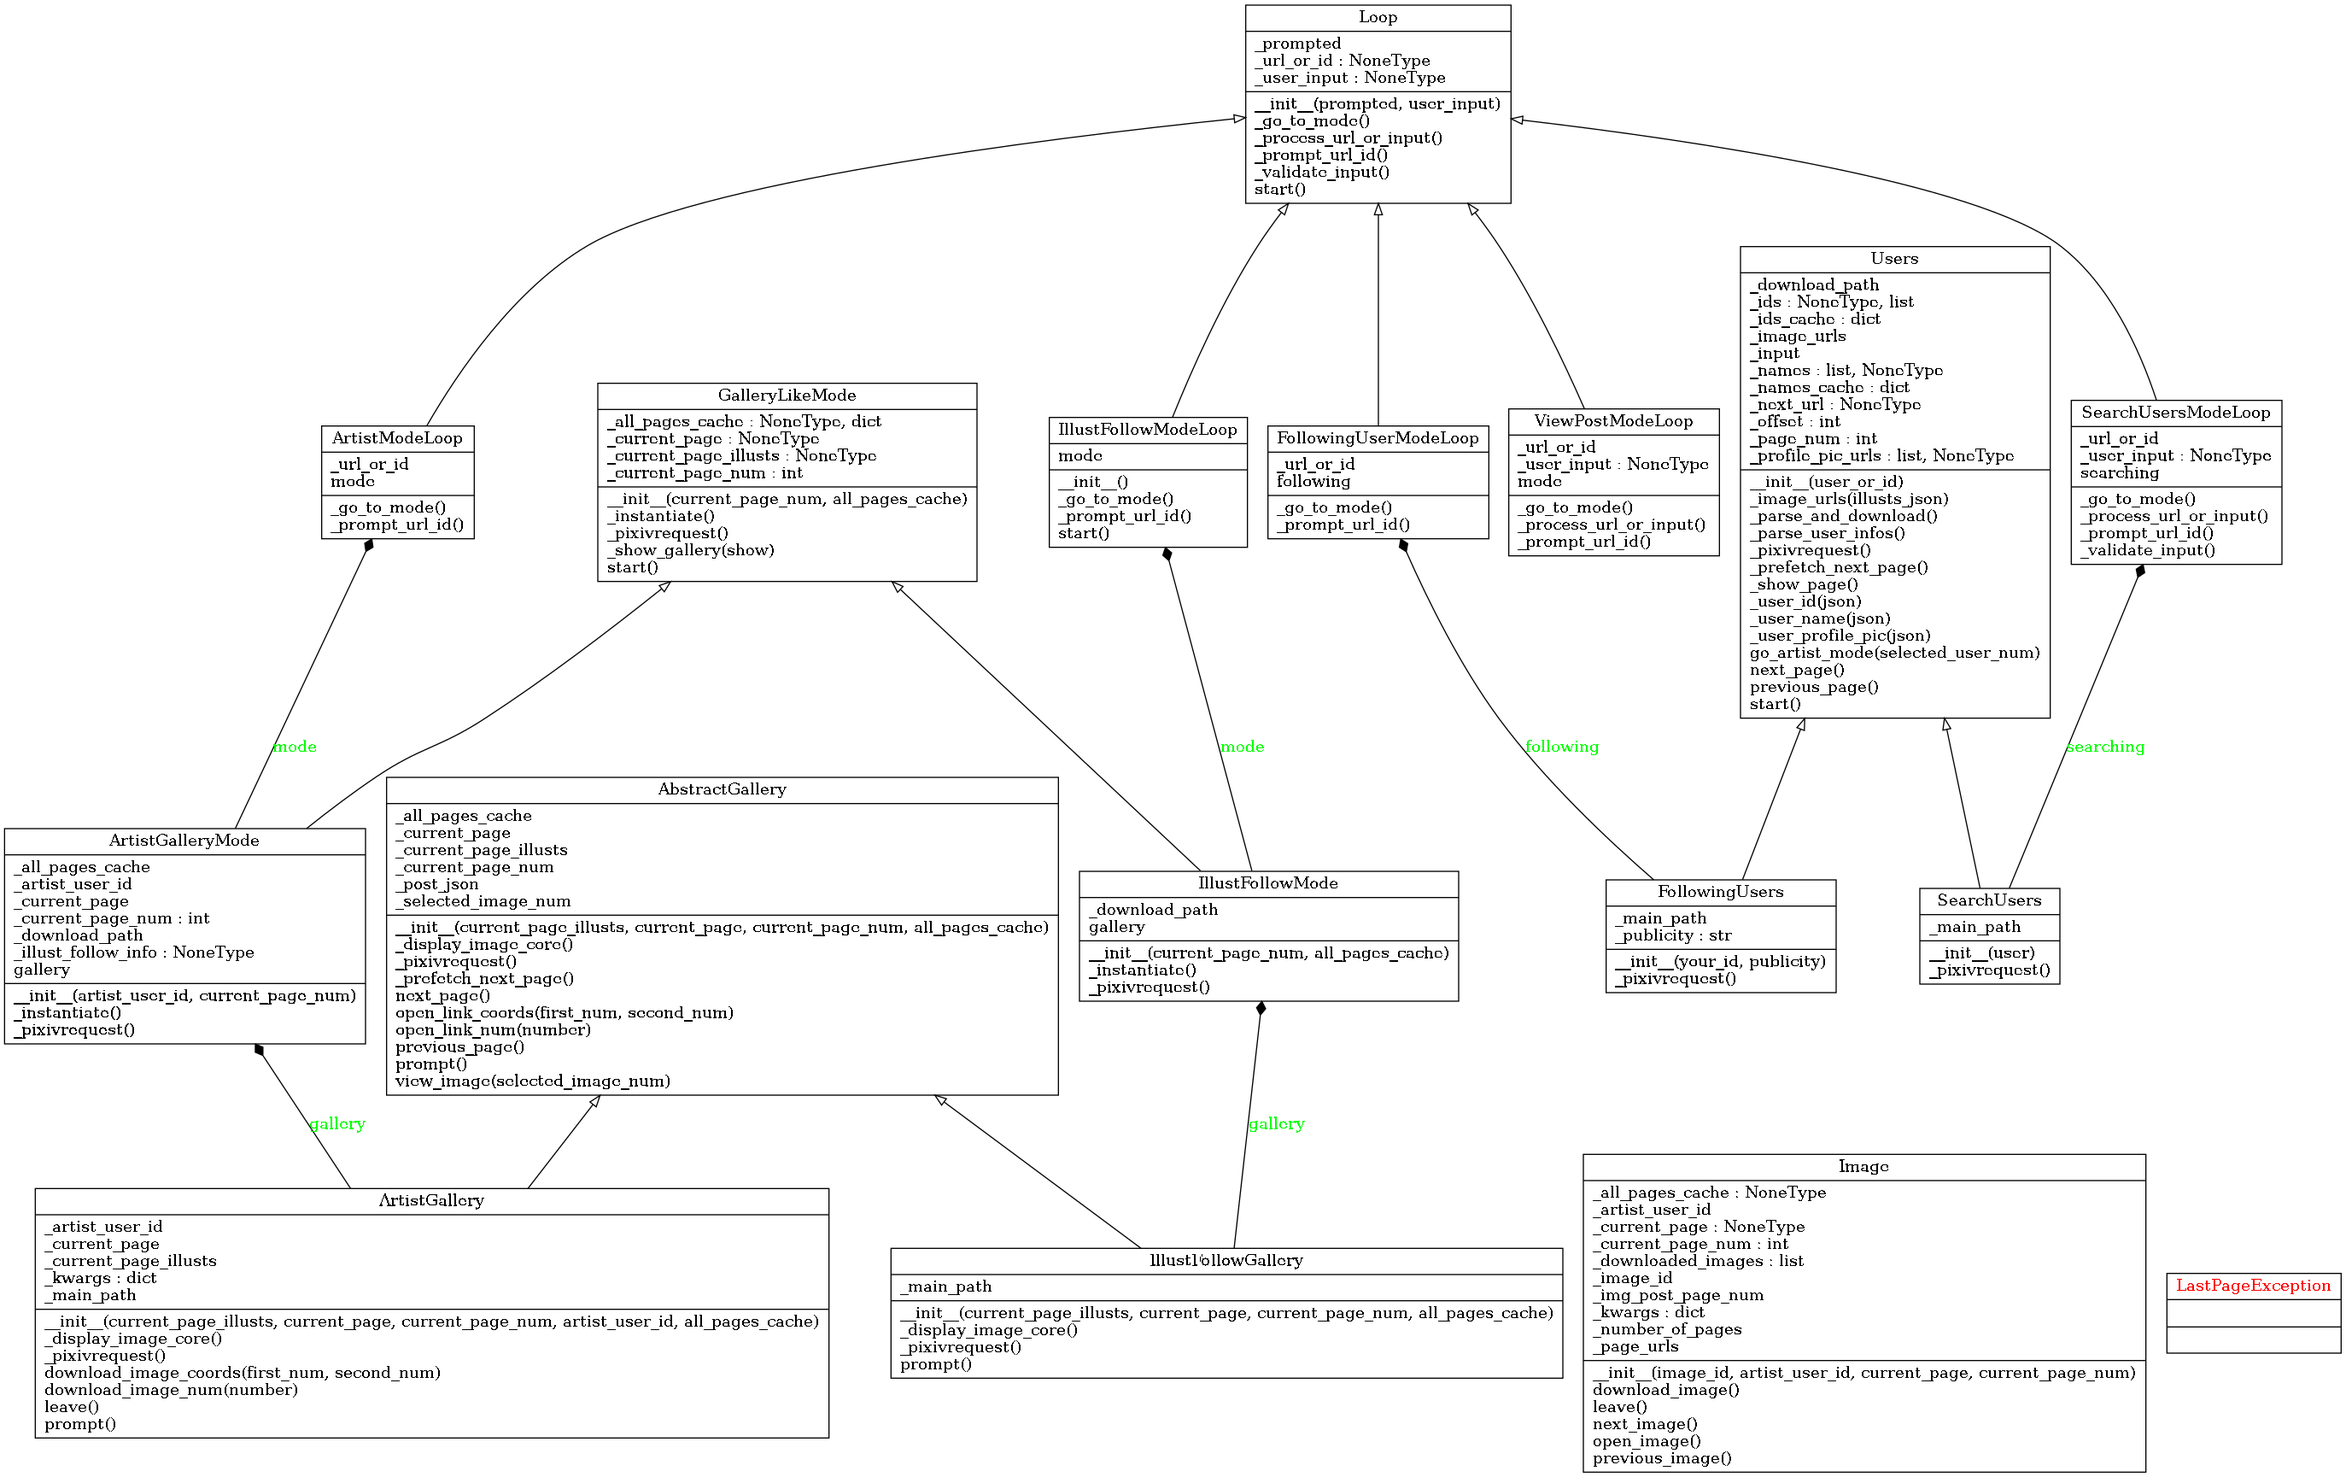
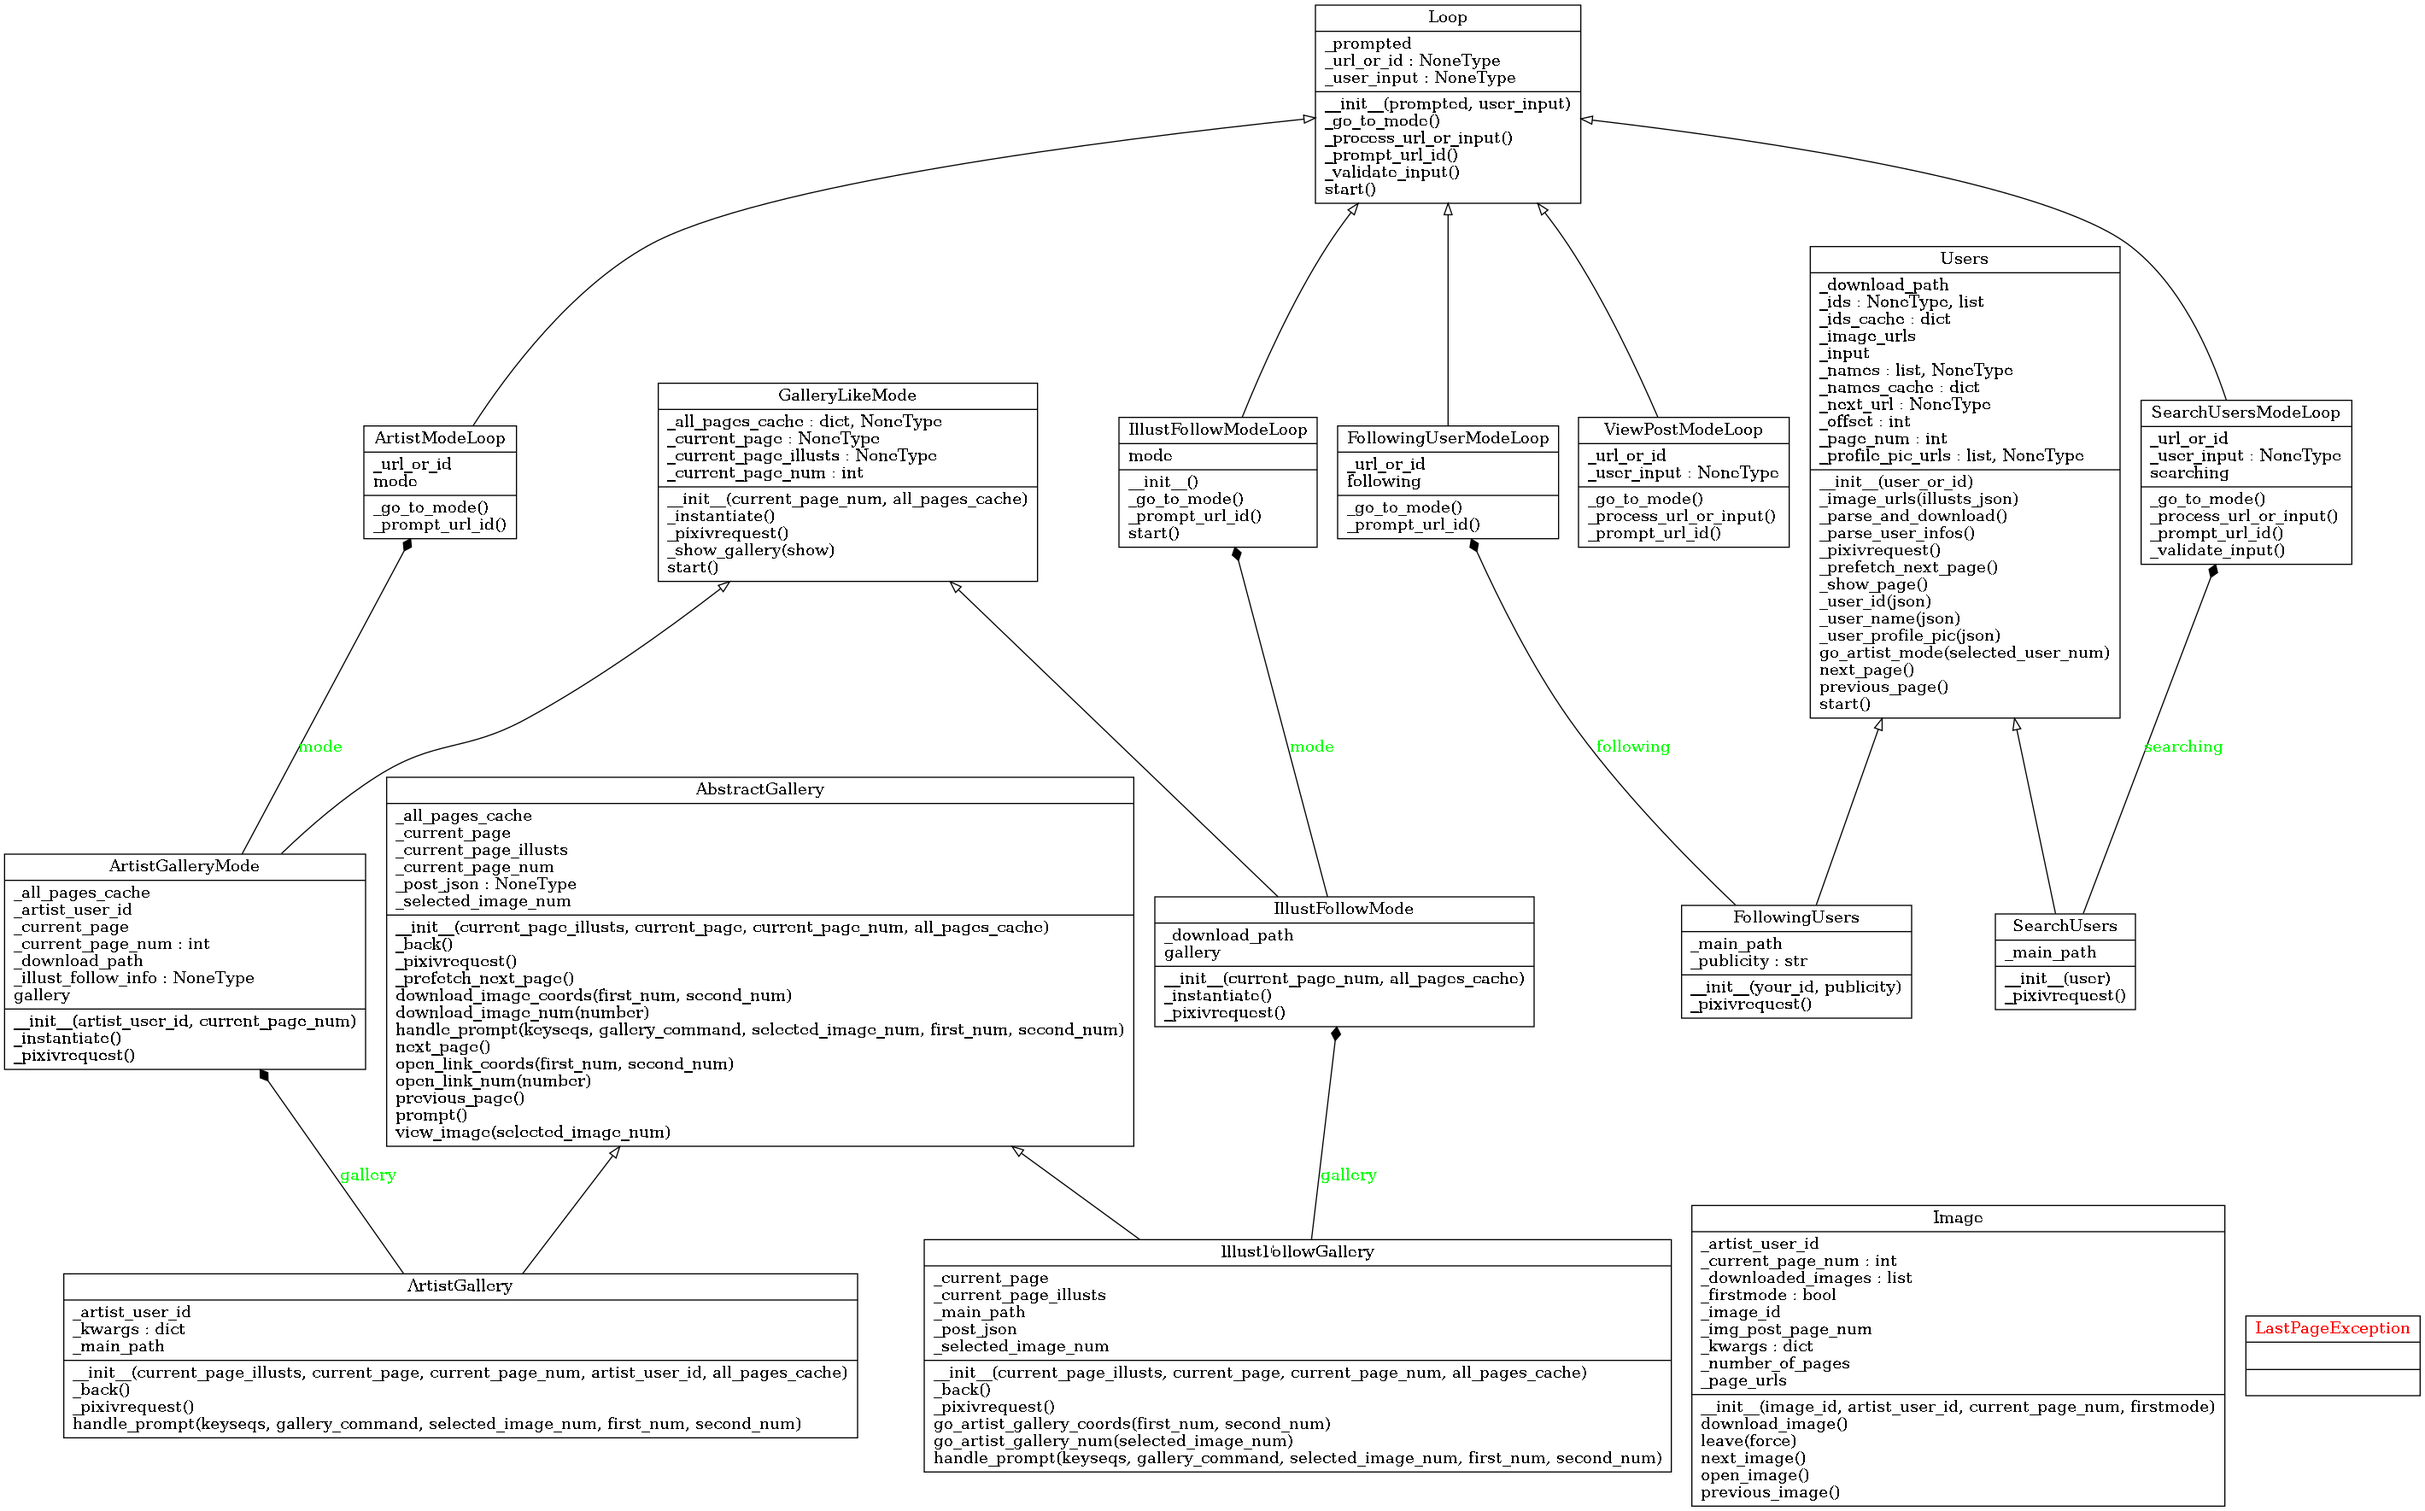
reload() for modes 1, 3, 4, 5

diff --git a/koneko/koneko.py b/koneko/koneko.py
@@ -821,6 +821,14 @@ class AbstractGallery(ABC):
             )
             pbar.close
 
+    def reload(self):
+        ans = input("This will delete cached images and redownload them. Proceed?\n")
+        if ans == "y" or not ans:
+            os.system(f"rm -r {self._main_path}") # shutil.rmtree is better
+            self._back()
+        else:
+            self.prompt()
+
     def prompt(self):
         """
         Only contains logic for interpreting key presses, and do the correct action
@@ -916,6 +924,9 @@ class AbstractGallery(ABC):
                 elif gallery_command == "b":
                     break
 
+                elif gallery_command == "r":
+                    break
+
                 elif gallery_command.code == 343:  # Enter
                     pass
                 elif gallery_command == "h":
@@ -951,8 +962,9 @@ class ArtistGallery(AbstractGallery):
 
         n                  -- view the next page
         p                  -- view the previous page
-        h                  -- show this help
+        r                  -- delete all cached images, re-download and reload view
         b                  -- go back to previous mode (either 3, 4, 5, or main screen)
+        h                  -- show this help
         q                  -- quit (with confirmation)
 
     Examples:
@@ -989,6 +1001,8 @@ class ArtistGallery(AbstractGallery):
         # Display image (using either coords or image number), the show this prompt
         if gallery_command == "b":
             pass # Stop gallery instance, return to previous state
+        elif gallery_command == "r":
+            self.reload()
         elif keyseqs[0] == "i":
             self.view_image(selected_image_num)
         elif keyseqs[0].lower() == "a":
@@ -1013,8 +1027,9 @@ class IllustFollowGallery(AbstractGallery):
 
         n                  -- view the next page
         p                  -- view the previous page
-        h                  -- show this help
+        r                  -- delete all cached images, re-download and reload view
         b                  -- go back to main screen
+        h                  -- show this help
         q                  -- quit (with confirmation)
 
     Examples:
@@ -1071,6 +1086,8 @@ class IllustFollowGallery(AbstractGallery):
         if gallery_command == "b":
             print("Invalid command! Press h to show help")
             self.prompt() # Go back to while loop
+        elif gallery_command == "r":
+            self.reload()
         elif keyseqs[0] == "i":
             self.view_image(selected_image_num)
         elif keyseqs[0] == "a":
@@ -1084,6 +1101,7 @@ class Users(ABC):
     User view commands (No need to press enter):
         n -- view next page
         p -- view previous page
+        r -- delete all cached images, re-download and reload view
         h -- show this help
         q -- quit (with confirmation)
 
@@ -1232,6 +1250,14 @@ class Users(ABC):
         self._show_page()
         user_prompt(self)
 
+    def reload(self):
+        ans = input("This will delete cached images and redownload them. Proceed?\n")
+        if ans == "y" or not ans:
+            os.system(f"rm -r {self._main_path}") # shutil.rmtree is better
+            self.__init__(self._input)
+            self.start()
+        user_prompt(self)
+
     @staticmethod
     def _user_id(json):
         return json["user"]["id"]
@@ -1306,6 +1332,9 @@ def user_prompt(user_class):
             elif user_prompt_command == "p":
                 user_class.previous_page()
 
+            elif user_prompt_command == "r":
+                break
+
             # Wait for the rest of the sequence
             elif user_prompt_command in sequenceable_keys:
                 keyseqs.append(user_prompt_command)
@@ -1345,7 +1374,10 @@ def user_prompt(user_class):
         # End while
     # End cbreak()
 
-    user_class.go_artist_mode(selected_user_num)
+    if user_prompt_command == "r":
+        user_class.reload()
+    else:
+        user_class.go_artist_mode(selected_user_num)
 # - End interactive (frontend) functions
 
 

diff --git a/README.md b/README.md
@@ -103,7 +103,6 @@ For more details look at the [manual](#manual).
 
 ## Features
 
-* 'r' to reload: deleted saved images and redownload
 * Image view should preview the next few images in multi-image posts
 * For multi-image posts in image view, enter a number to jump to the post's page
 * Option to use pillow or wand to edit numbers on pics
@@ -166,8 +165,9 @@ Using image number, where {number} is the nth image in order (see examples)
 
     n                  -- view the next page
     p                  -- view the previous page
-    h                  -- show this help
+    r                  -- delete all cached images, re-download and reload view
     b                  -- go back to previous mode (either 3, 4, 5, or main screen)
+    h                  -- show this help
     q                  -- quit (with confirmation)
 
 Examples:
@@ -217,8 +217,9 @@ Using image number, where {number} is the nth image in order (see examples)
 
     n                  -- view the next page
     p                  -- view the previous page
-    h                  -- show this help
+    r                  -- delete all cached images, re-download and reload view
     b                  -- go back to main screen
+    h                  -- show this help
     q                  -- quit (with confirmation)
 
 Examples:
